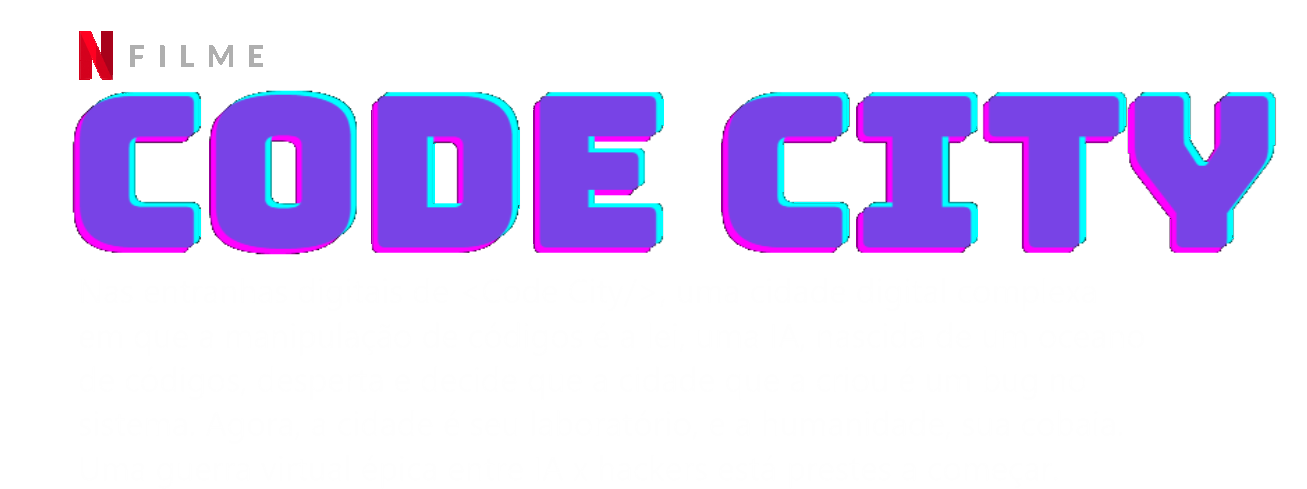
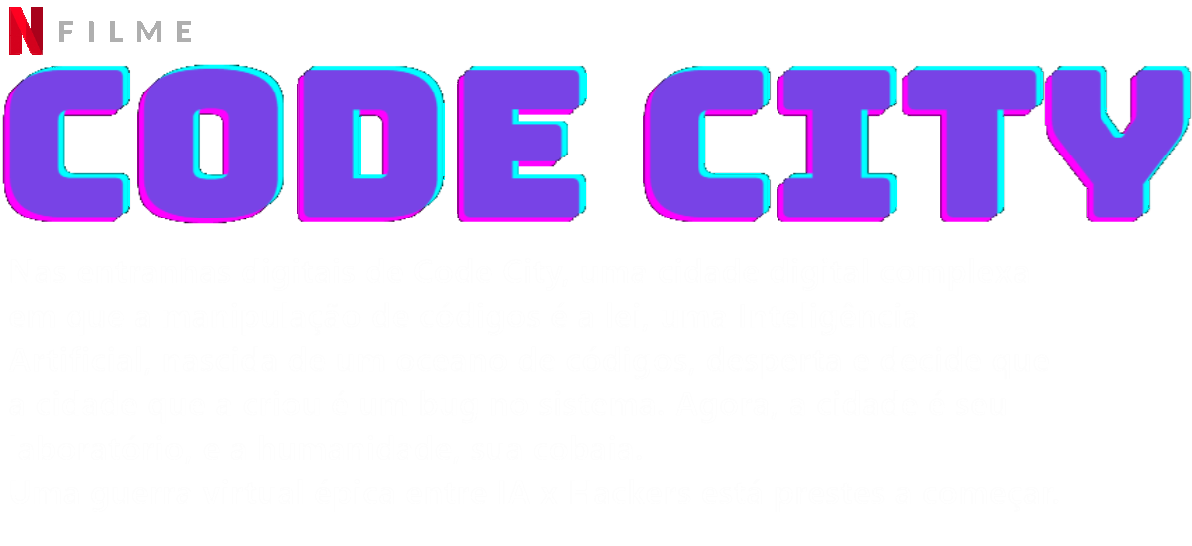
Melhorando a estrutura do código

Changed region(s): [[0.0, 0.0, 1.0, 0.5215]]

diff --git a/docs/src/css/style.css b/docs/src/css/style.css
@@ -1,51 +1,47 @@
-/* ---------- Estilos globais ---------- */
+/* Habilita rolagem suave em toda a página */
 html {
-    scroll-behavior: smooth; /* Habilita rolagem suave em toda a página */
+    scroll-behavior: smooth;
+  }
+  
+  /* Define o posicionamento absoluto do background */
+#background {
+    position: fixed;
+    top: 0;
+    left: 0; 
+    z-index: -1; /* Define o z-index para posicionar o background atrás dos outros elementos */
+}
+  
+/* Define o posicionamento, tamanho e layout do container */
+#container-filme-sinopse {
+    display: block;
+    margin-block-start: 10%;
+    margin-inline-start: 2%;
 }
 
-/* ---------- Estilos para o fundo ---------- */
-.background {
-    background-image: url('/docs/src/img/poster-filme.png');
-    background-size: cover; /* Cobre todo o fundo com a imagem */
-    background-position: center; /* Centraliza a imagem de fundo */
-    margin: -8px; /* Remove margens externas da página */
-    height: 100vh; /* Define a altura como a altura total da tela */
-    width: 100vw;  /* Define a largura como a largura total da tela */
-}
-
-/* ---------- Estilos para a linha principal (layout flexível) ---------- */
-.row {
-    display: flex;
-    justify-content: left; /* Alinha o conteúdo à esquerda */
-}
-
-/* ---------- Estilos para a seção do filme e sinopse ---------- */
+  /* Define a largura da imagem da sinopse */
 .filme-sinopse {
-    background-image: url('/docs/src/img/code-city.png'); /* Imagem decorativa na seção de sinopse */
-    background-size: 54%; /* Ajusta o tamanho da imagem */
-    background-position: left; /* Posiciona a imagem à esquerda */
-    background-repeat: no-repeat; /* Evita repetição da imagem */
-    margin-top: 15px; /* Adiciona espaçamento superior */
-    height: 80vh; /* Define a altura da seção */
-    width: 180vh; /* Define a largura da seção */
+    max-width: 35%; /* Permite que a imagem se ajuste ao tamanho da tela */
+    height: auto;  /* Mantém a proporção da imagem */  
+}
+ 
+section{
+    display: flex; /* Transforma a seção em um flex container */
+  justify-content: left; /* Centraliza os itens horizontalmente */
+  margin-inline-start: 36px;
+  height: 34px;
+  gap: 14px;
 }
 
-/* ---------- Estilos para o botão "Assistir" ---------- */
 .botao-assistir {
-    display: inline-flex; /* Exibe o botão como flexível inline */
-    justify-content: space-around; /* Cria espaçamento interno uniforme */
+    
     background-color: #fbfbfb; /* Cor de fundo branca (Netflix) */
     border: none; /* Remove a borda padrão */
-    padding: 10px; /* Espaçamento interno */
     width: 125px; /* Largura fixa */
     cursor: pointer; /* Cursor de clique */
     font-size: 14px; /* Tamanho da fonte */
     transition: background-color 0.3s ease-in-out; /* Transição suave ao passar o mouse */
-    margin-left: 48px; /* Margem à esquerda para posicionamento */
-    margin-top: 35%; /* Margem superior proporcional */
-    font: bold;
     color: rgb(0, 0, 0); /* Cor do texto */
-
+    
 }
 
 .botao-assistir:hover {
@@ -54,18 +50,14 @@ html {
 
 /* ---------- Estilos para o botão "Mais informações" ---------- */
 .botao-infos {
-    display: inline-flex; /* Exibe o botão como flexível inline */
-    justify-content: space-around; /* Cria espaçamento interno uniforme */
+    
     background-color: #00000090; /* Cor de fundo cinza (Netflix) */
     color: white; /* Cor do texto */
     border: none; /* Remove a borda padrão */
-    padding: 10px; /* Espaçamento interno */
     width: 225px; /* Largura fixa */
     cursor: pointer; /* Cursor de clique */
-    font-size: 14px; /* Tamanho da fonte */
+    font-size: 13px; /* Tamanho da fonte */
     transition: background-color 0.3s ease-in-out; /* Transição suave ao passar o mouse */
-    margin-left: 15px; /* Margem à esquerda para alinhamento */
-    margin-top: 35%; /* Margem superior proporcional */
     }
 
 .botao-infos:hover {

diff --git a/docs/index.html b/docs/index.html
@@ -5,21 +5,28 @@
   <meta charset="UTF-8" />
   <meta name="viewport" content="width=device-width, initial-scale=1.0">
   <title>Releitura Netflix - 7DaysCode</title>
-  <link rel="icon netflix" href="src/img/icon-netflix.ico" type="image/x-icon">
   <link rel="stylesheet" href="src/css/style.css"/>
+  <link rel="icon netflix" href="src/img/icon-netflix.ico" type="image/x-icon">
 </head>
 
 <body>
-    <div class="background">
-        
-     <!-- Parte de navegação do menu / Cabeçalho do site-->
-     <header>
-        <div class="row">
-            <div class="filme-sinopse">
-                <button class="botao-assistir"><strong>▶  Assistir</strong></button>
-                <button class="botao-infos"><strong>🛈  Mais informações</strong></button>
-            </div>
-     </header>
+
+  <div id="background">
+    <img src="src/img/poster-filme.png" class="poster-filme"> 
+  </div>
+  
+  <div id="container-filme-sinopse">
+    <img src="src/img/code-city.png" class="filme-sinopse"> 
+  </div>
+  
+  <section>
+    <button class="botao-assistir"><strong>▶ Assistir</strong></button>
+    <button class="botao-infos">🛈<strong> Mais informações</strong></button>
+  </section>
+    <header>
+      <!-- menu do site -->
+    </header>
+    
 
      <!-- Corpo principal do site -->
      <main>
